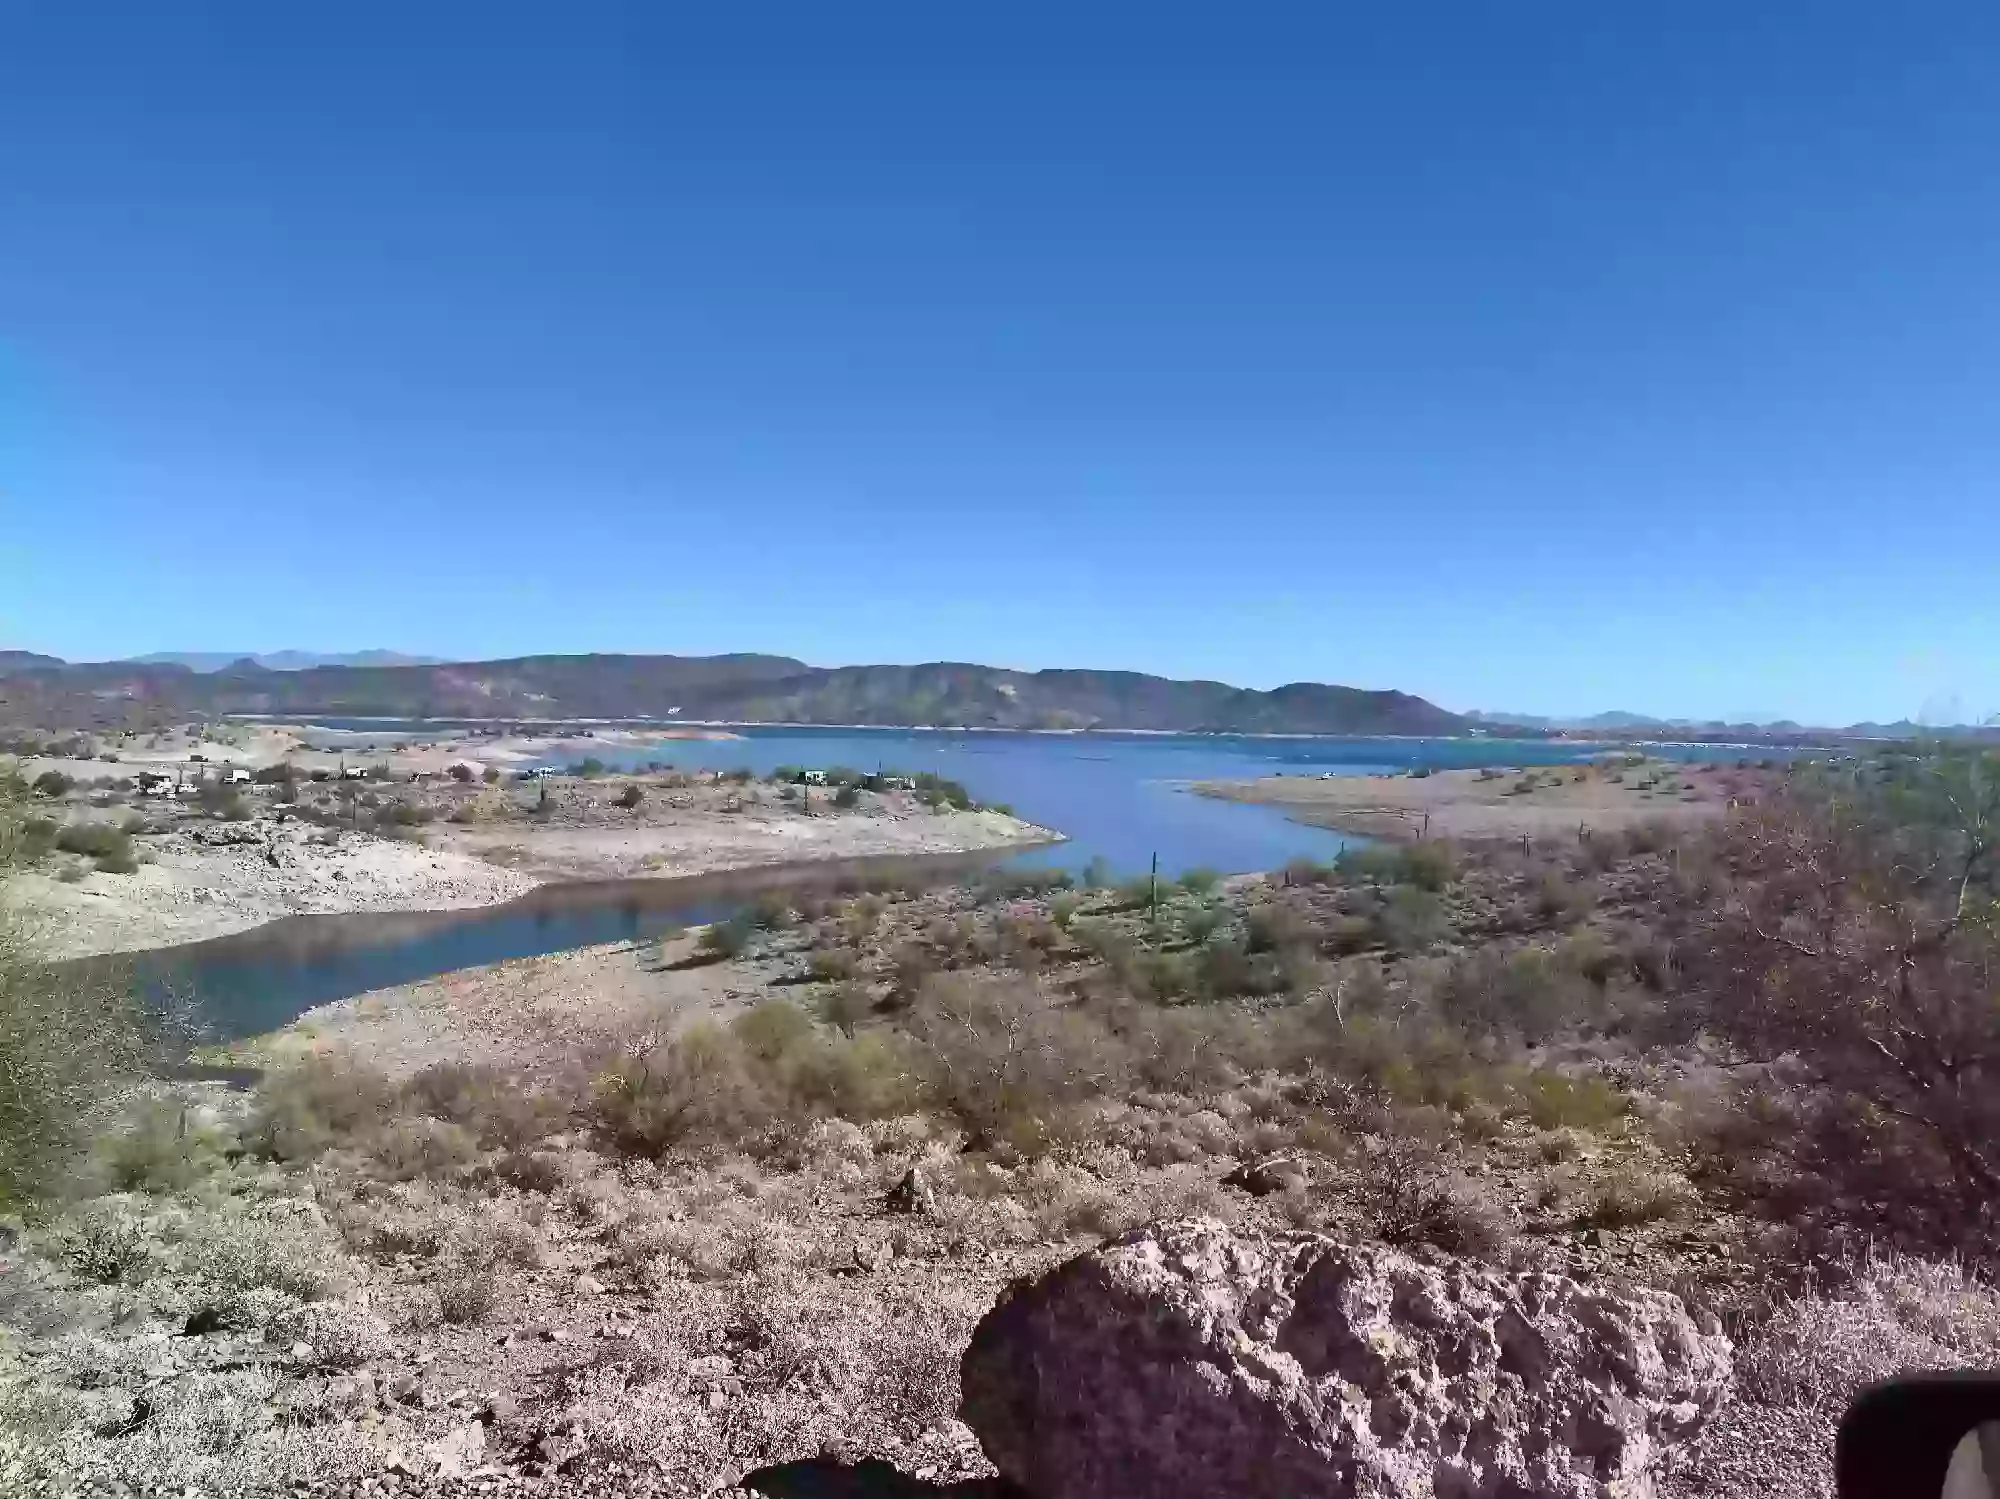
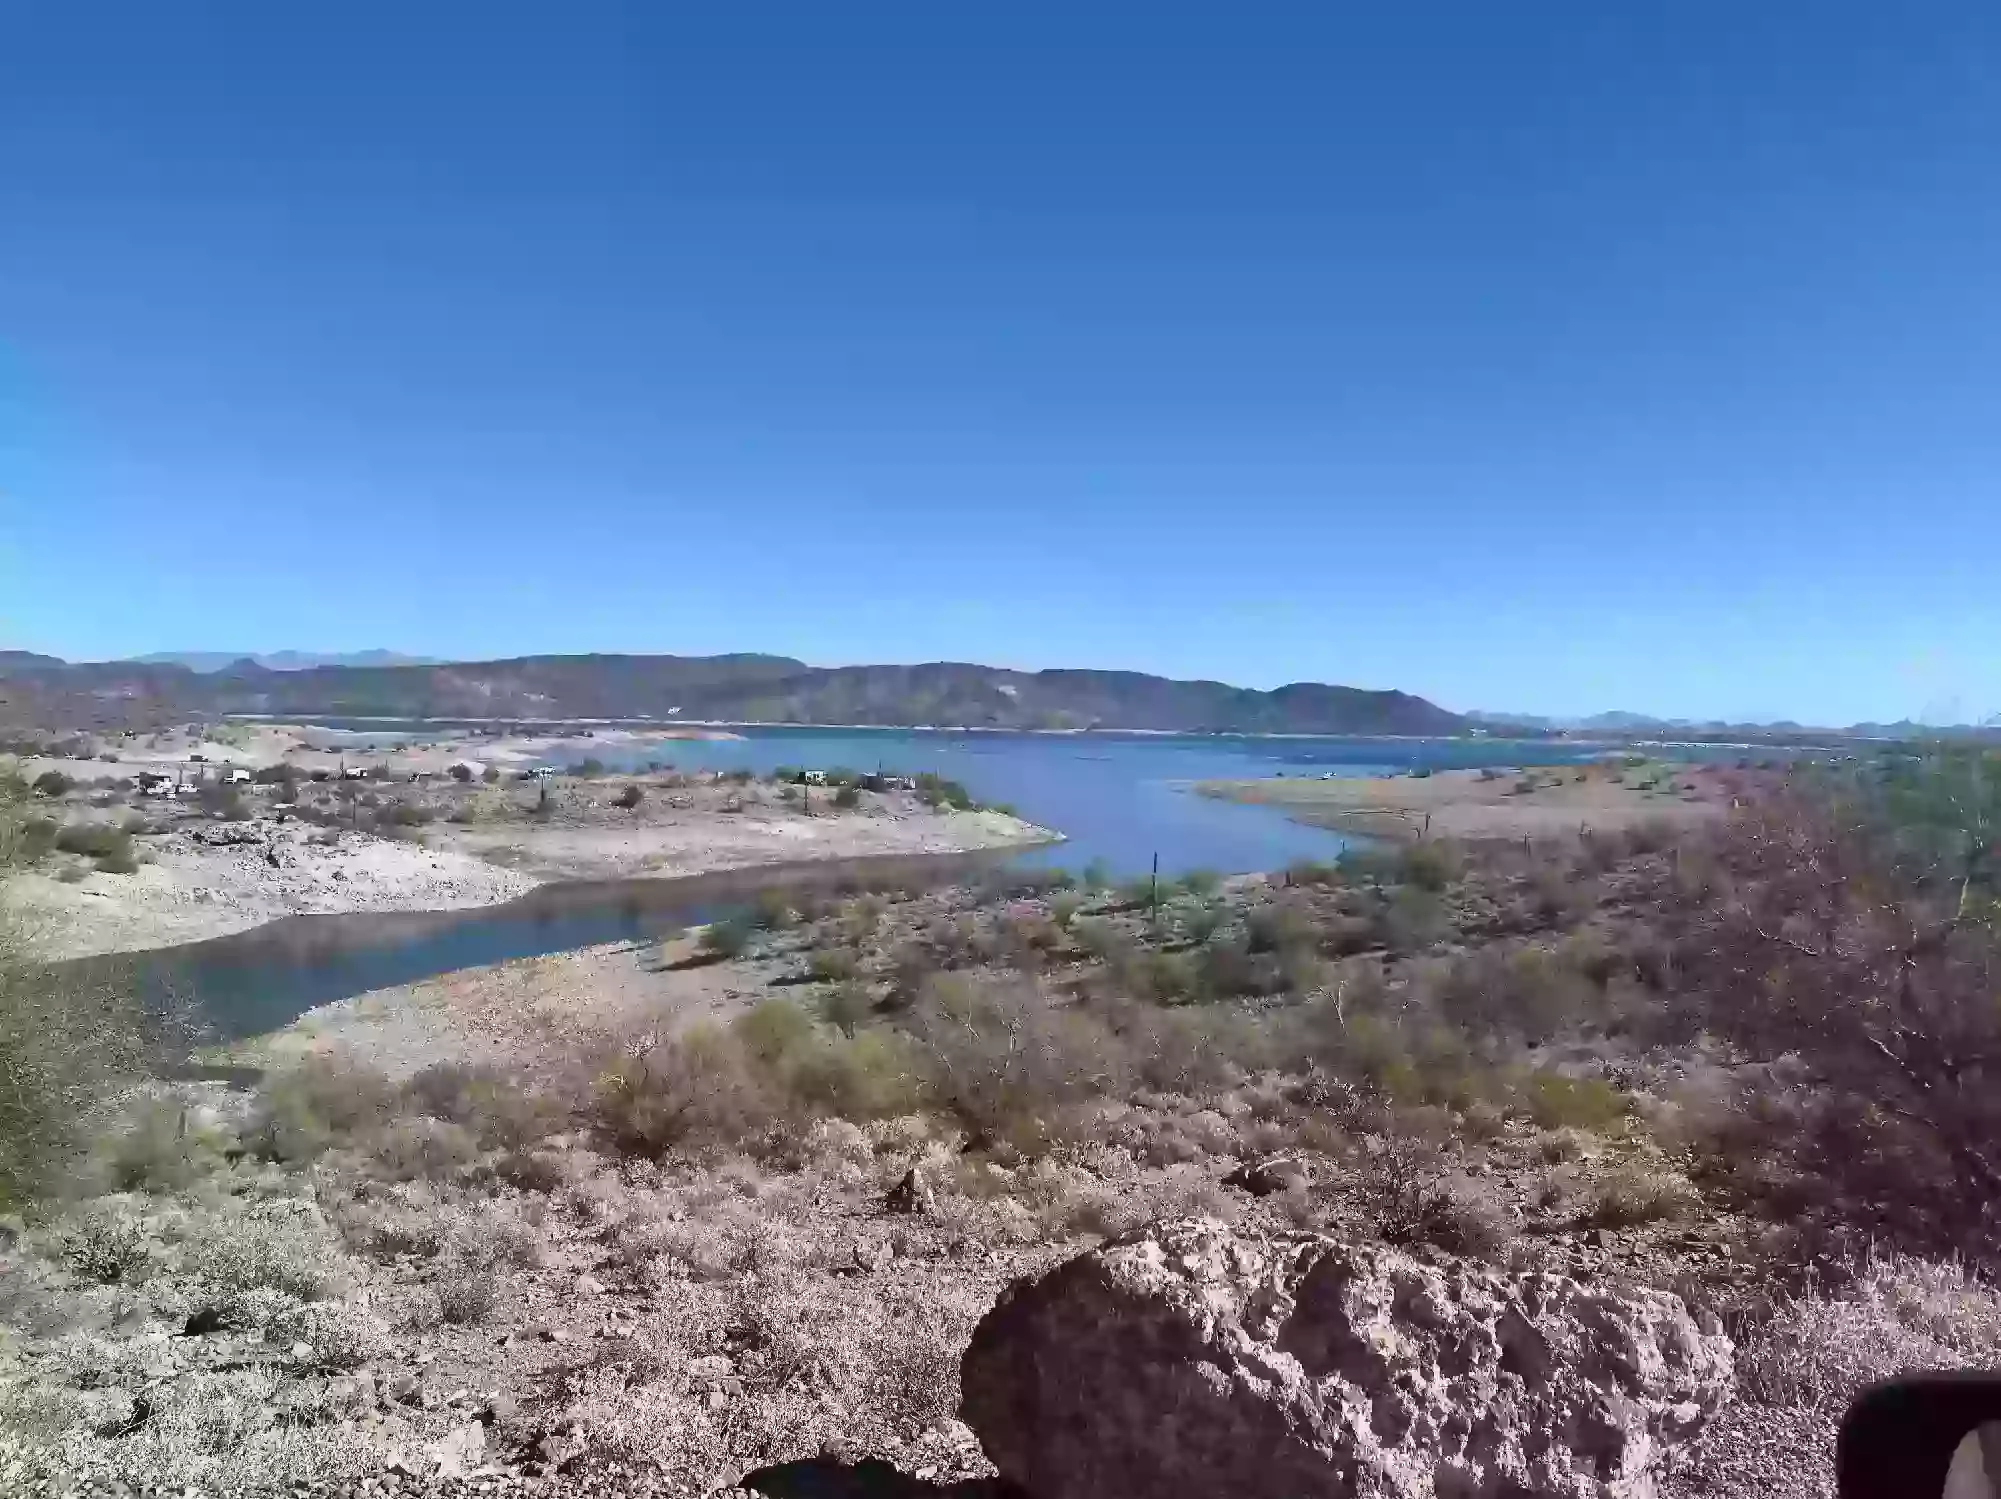
compressing images

diff --git a/blogpost3.html b/blogpost3.html
@@ -232,7 +232,7 @@
 
 <h2>What is Storytelling in Web Design?</h2>
 
-<img class="article-image" src="images/storytelling_image.jpg" alt="Graph depicting financial growth with dollar signs and arrows.">
+<img class="article-image" src="./images/storytelling_image.webp" alt="Graph depicting financial growth with dollar signs and arrows.">
 
 <p>Storytelling in web design involves using narratives to guide users through your website. This can include a combination of text, images, videos, and interactive elements to communicate your brand's story and values. A well-crafted story can make your website not only functional but also emotionally engaging, encouraging visitors to explore and interact with your content.</p>
 
